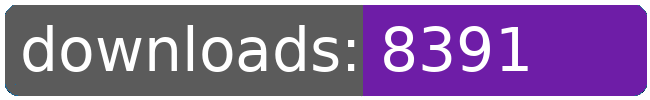
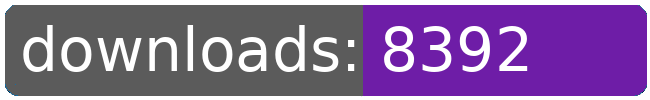
dl log written

Changed region(s): [[0.7692, 0.24, 0.8308, 0.69]]

diff --git a/README.md b/README.md
@@ -21,8 +21,8 @@
 		<td>8374</td>
 		<td>8380</td>
 		<td>8388</td>
-		<td>8391</td>
-		<td>+ 3</td>
+		<td>8392</td>
+		<td>+ 4</td>
 	</tr>
 	<tr>
 		<td>aberrant.kahet.outfitter</td>
@@ -274,8 +274,8 @@
 		<td></td>
 		<td></td>
 		<td></td>
-		<td>127073</td>
-		<td>36</td>
+		<td>127074</td>
+		<td>37</td>
 	</tr>
 </table>
 </sub></sup>
@@ -300,8 +300,8 @@
 		<td>8374</td>
 		<td>8380</td>
 		<td>8388</td>
-		<td>8391</td>
-		<td>+ 3</td>
+		<td>8392</td>
+		<td>+ 4</td>
 	</tr>
 	<tr>
 		<td>aberrant.kahet.outfitter</td>
@@ -553,8 +553,8 @@
 		<td></td>
 		<td></td>
 		<td></td>
-		<td>127073</td>
-		<td>36</td>
+		<td>127074</td>
+		<td>37</td>
 	</tr>
 </table>
 </sub></sup>
